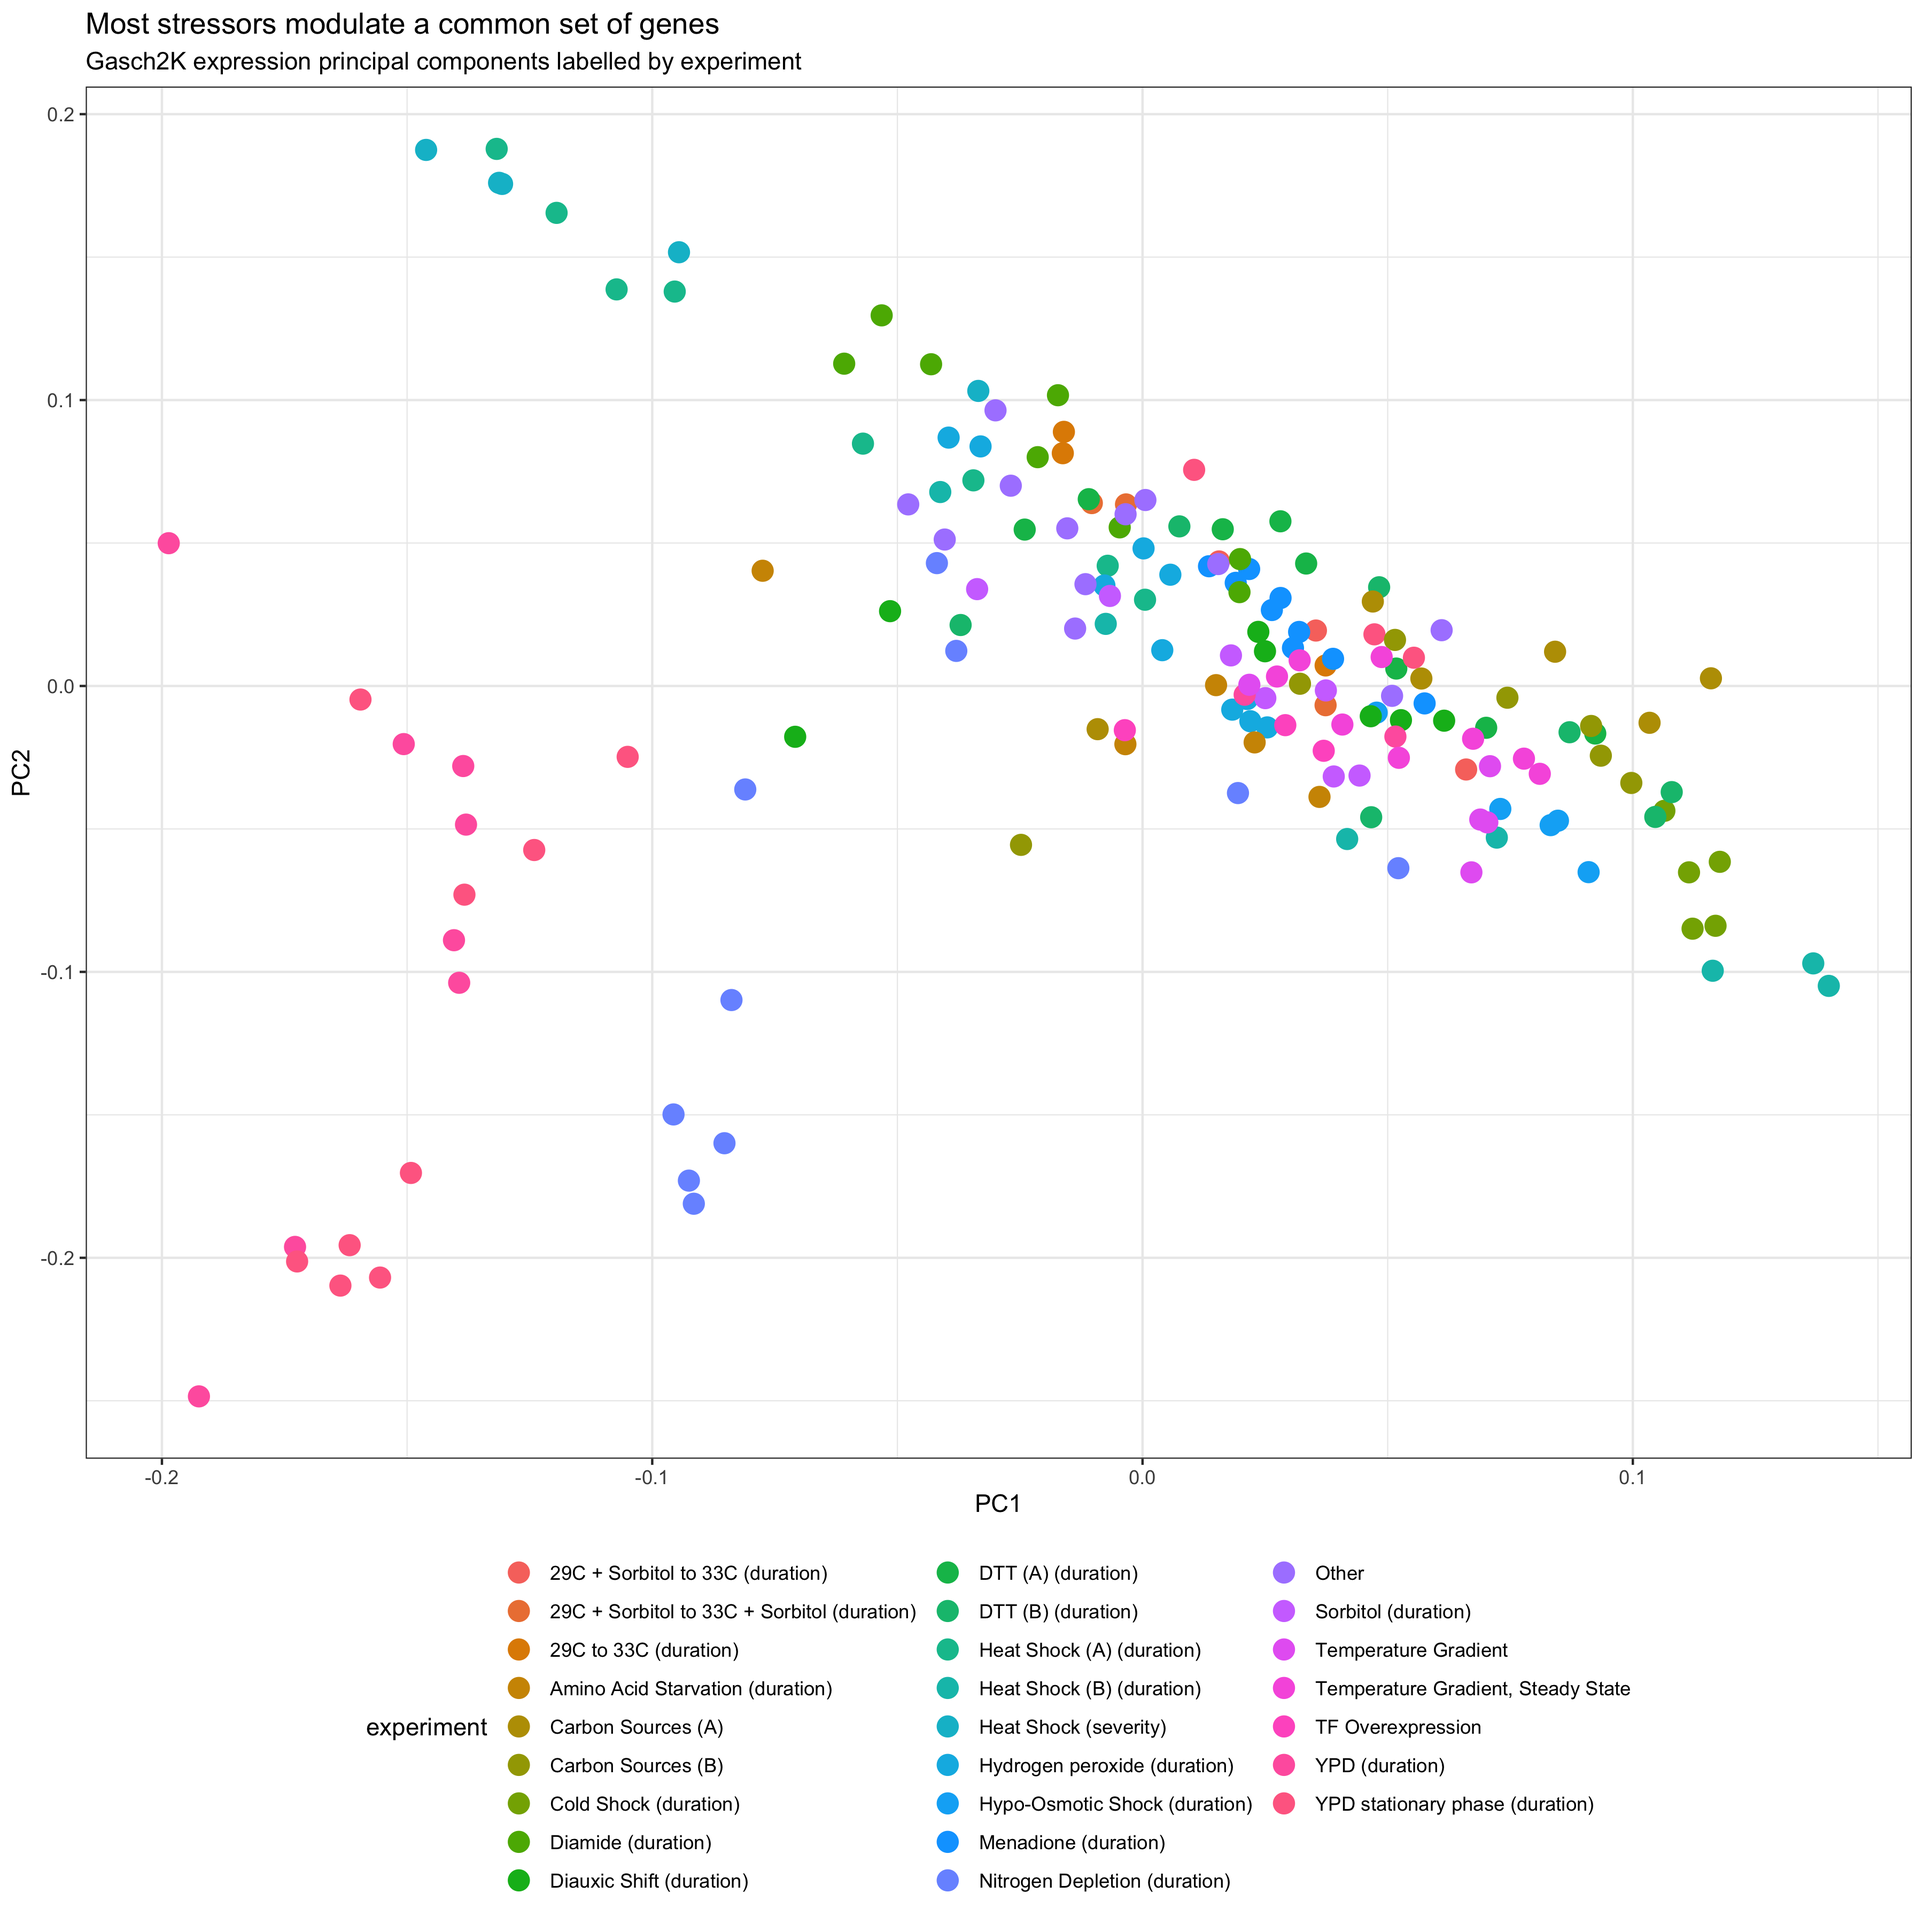
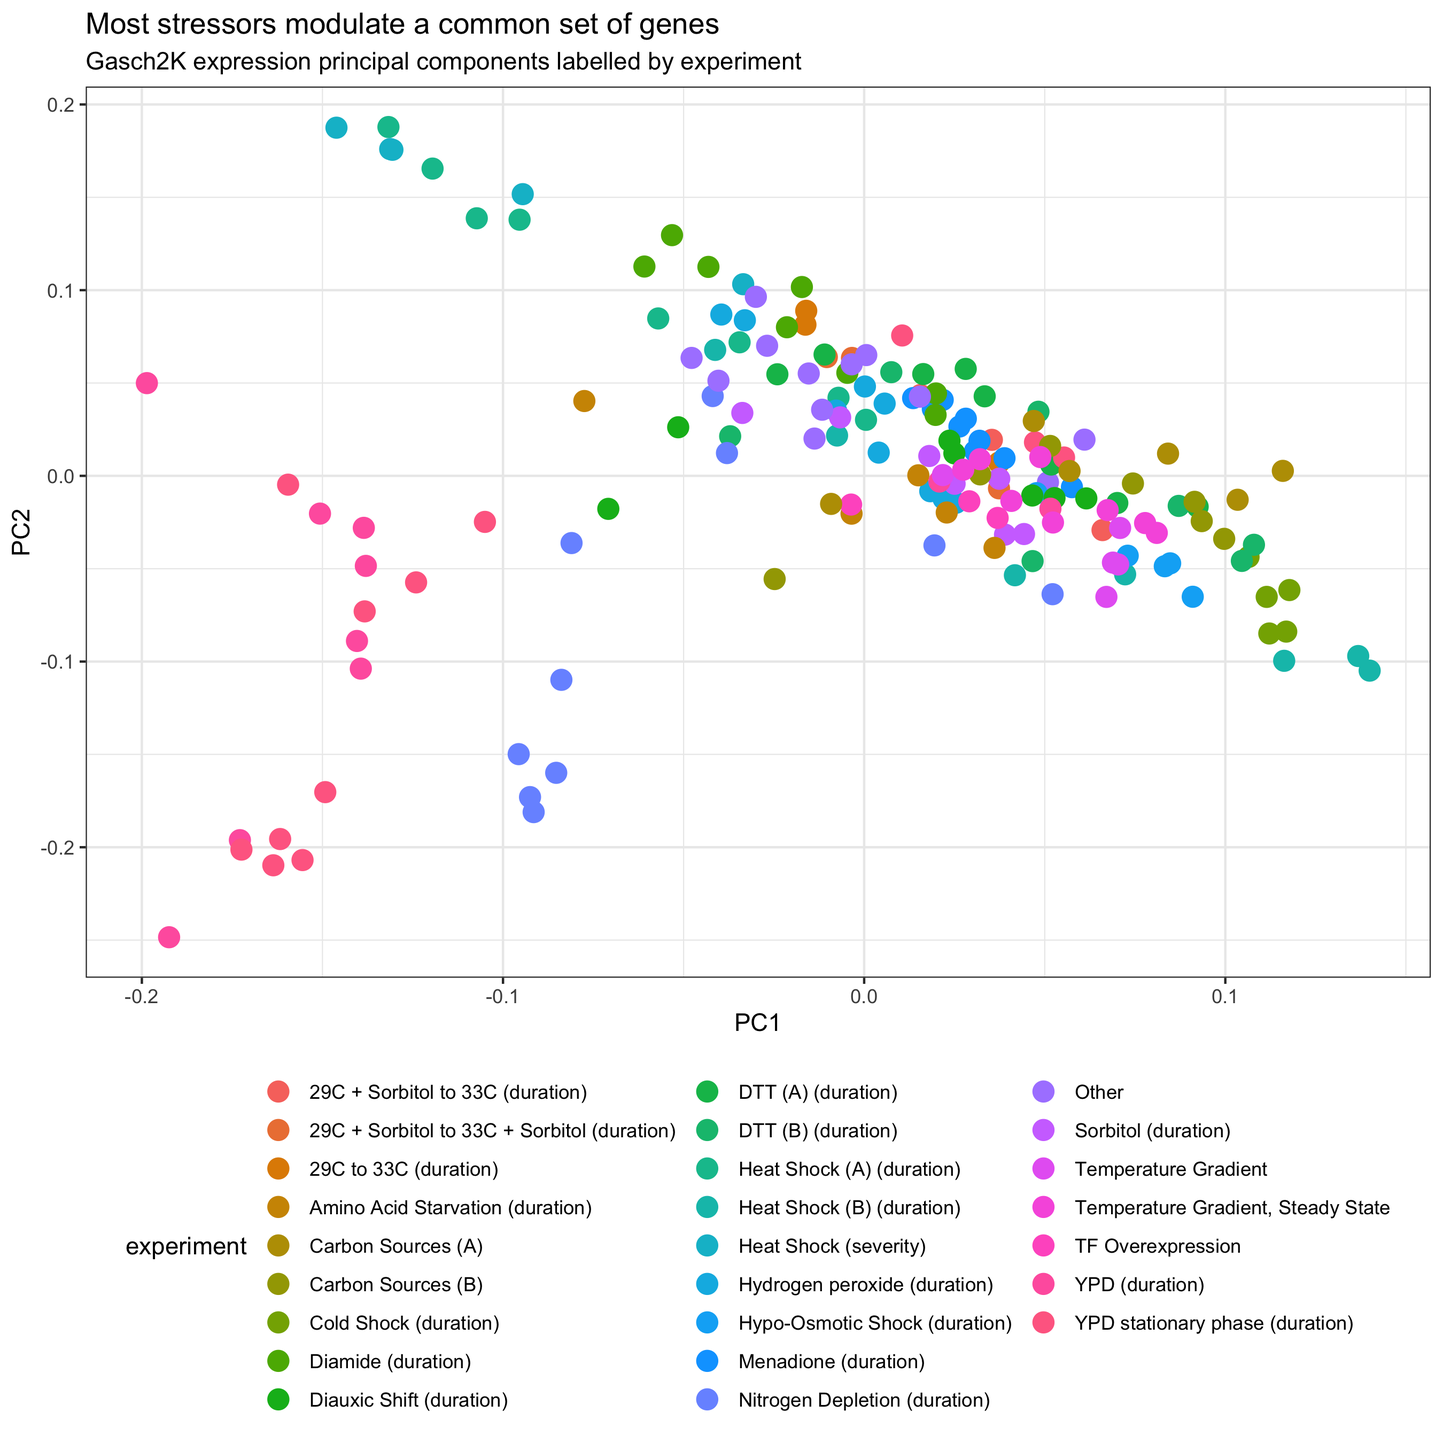
resizing plot

diff --git a/_posts/2022-05-08-romic.md b/_posts/2022-05-08-romic.md
@@ -250,29 +250,29 @@ experiment_labels %>%
  </thead>
 <tbody>
   <tr>
-   <td style="text-align:left;"> 2.5mM DTT 045 min dtt-1 </td>
-   <td style="text-align:left;"> DTT (A) (duration) </td>
-   <td style="text-align:right;"> 4 </td>
+   <td style="text-align:left;"> 37C to 25C shock - 90 min </td>
+   <td style="text-align:left;"> Cold Shock (duration) </td>
+   <td style="text-align:right;"> 5 </td>
   </tr>
   <tr>
-   <td style="text-align:left;"> galactose vs. reference pool car-1 </td>
-   <td style="text-align:left;"> Carbon Sources (A) </td>
-   <td style="text-align:right;"> 2 </td>
+   <td style="text-align:left;"> 29C +1M sorbitol to 33C + *NO sorbitol - 30 minutes </td>
+   <td style="text-align:left;"> 29C + Sorbitol to 33C (duration) </td>
+   <td style="text-align:right;"> 3 </td>
   </tr>
   <tr>
-   <td style="text-align:left;"> 1M sorbitol - 5 min </td>
-   <td style="text-align:left;"> Sorbitol (duration) </td>
-   <td style="text-align:right;"> 1 </td>
+   <td style="text-align:left;"> heat shock 25 to 37, 20 minutes </td>
+   <td style="text-align:left;"> Heat Shock (severity) </td>
+   <td style="text-align:right;"> 3 </td>
   </tr>
   <tr>
-   <td style="text-align:left;"> steady-state 1M sorbitol </td>
-   <td style="text-align:left;"> Other </td>
-   <td style="text-align:right;"> NA </td>
+   <td style="text-align:left;"> YPD stationary phase 5 d ypd-1 </td>
+   <td style="text-align:left;"> YPD stationary phase (duration) </td>
+   <td style="text-align:right;"> 8 </td>
   </tr>
   <tr>
-   <td style="text-align:left;"> 1mM Menadione (40 min) redo </td>
-   <td style="text-align:left;"> Menadione (duration) </td>
-   <td style="text-align:right;"> 4 </td>
+   <td style="text-align:left;"> constant 0.32 mM H2O2 (80 min) redo </td>
+   <td style="text-align:left;"> Hydrogen peroxide (duration) </td>
+   <td style="text-align:right;"> 7 </td>
   </tr>
 </tbody>
 </table>
